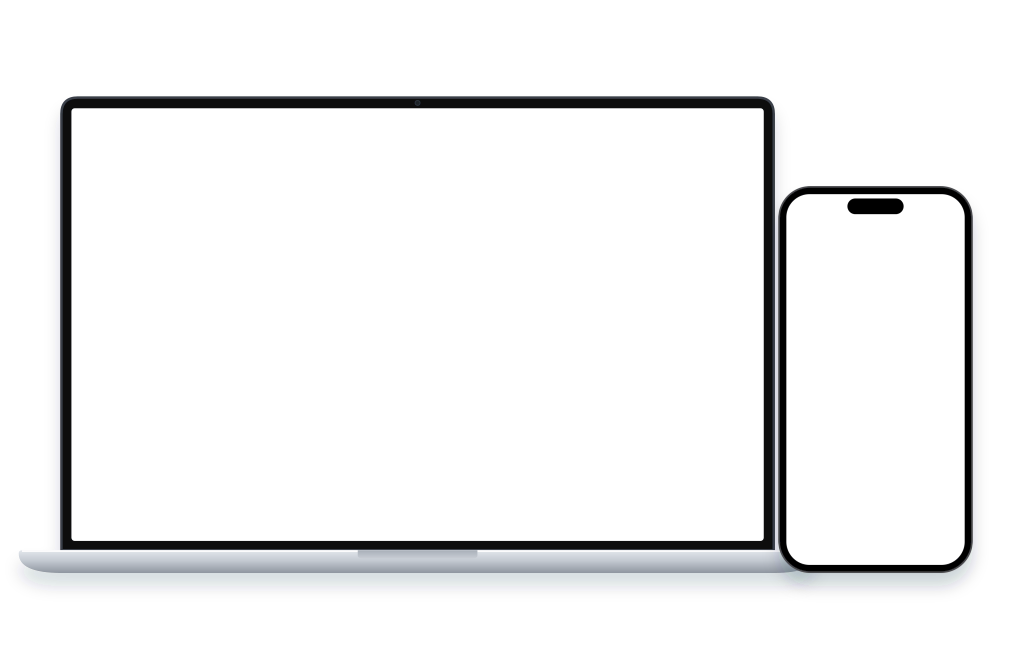
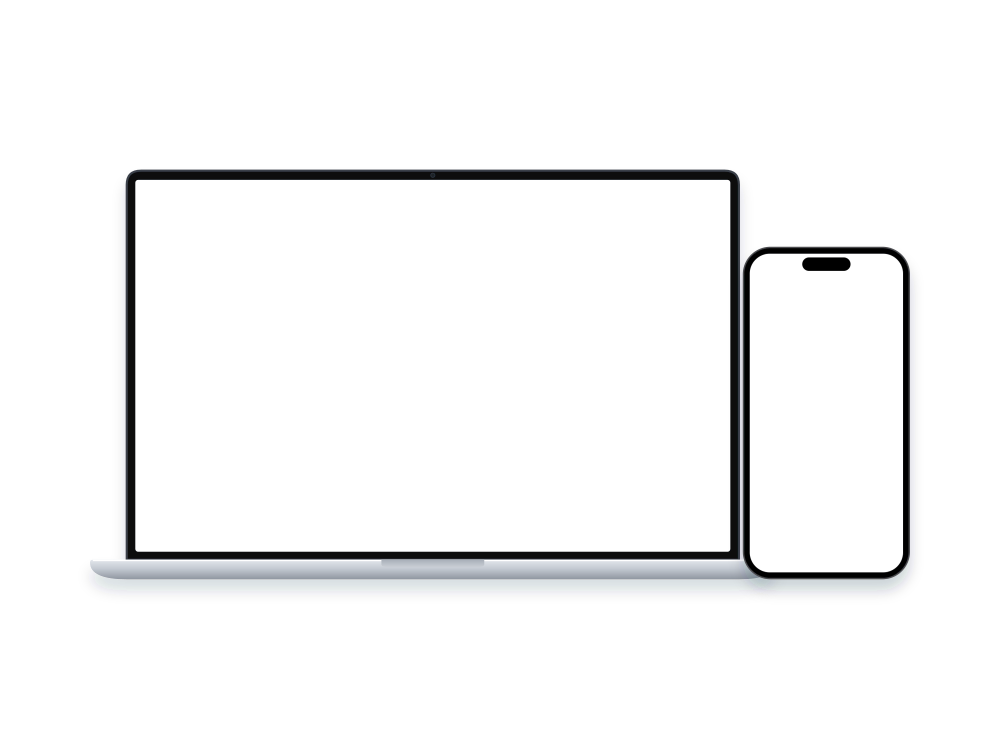
Upwork thumbnail: new 1000x750 template, exact size
Claude-Session: https://claude.ai/code/session_01QG62QkaA6QenRdwAqEtM53

Changed region(s): [[0.0, 0.1205, 0.961, 0.9036]]

diff --git a/dwd-projects/assets/upwork.js b/dwd-projects/assets/upwork.js
@@ -44,14 +44,14 @@
 	}
 
 	/*
-	 * The thumbnail is always the same template (assets/upwork-thumb.png, 1024 x 664): the site's
+	 * The thumbnail is always the same template (assets/upwork-thumb.png, 1000 x 750): the site's
 	 * hero goes on the laptop screen and the phone view on the phone screen. Screen positions are
-	 * measured from the template. It's drawn at 2x for sharpness, then the template frame on top.
+	 * measured from the template. The output is the template's exact size.
 	 */
-	var T = { w: 1024, h: 664, scale: 2,
-		laptop: { x: 71, y: 108, w: 693, h: 433 },
-		phone: { x: 786, y: 194, w: 178, h: 371, r: 22 },
-		island: { x: 849, y: 198, w: 53, h: 15 } };
+	var T = { w: 1000, h: 750, scale: 1,
+		laptop: { x: 135, y: 179, w: 596, h: 373 },
+		phone: { x: 749, y: 253, w: 154, h: 320, r: 20 },
+		island: { x: 804, y: 258, w: 45, h: 13 } };
 
 	function thumbnail(frame, cover, mockup) {
 		var k = T.scale, c = canvas(T.w * k, T.h * k), x = c.getContext('2d');

diff --git a/dwd-projects/dwd-projects.php b/dwd-projects/dwd-projects.php
@@ -2,7 +2,7 @@
 /**
  * Plugin Name: DWD Projects Portfolio
  * Description: Add a website project once (name, URL, details) and it appears on the Portfolio page, the homepage carousel and its own case-study page. Captures full-page screenshots from the URL and cuts them into section images automatically. Also styles blog posts to match the site.
- * Version: 2.1.1
+ * Version: 2.1.2
  * Author: Dream Web Digital
  * Requires at least: 6.0
  * Requires PHP: 7.4
@@ -11,7 +11,7 @@
 
 defined( 'ABSPATH' ) || exit;
 
-define( 'DWDP_VERSION', '2.1.1' );
+define( 'DWDP_VERSION', '2.1.2' );
 define( 'DWDP_FILE', __FILE__ );
 define( 'DWDP_DIR', plugin_dir_path( __FILE__ ) );
 define( 'DWDP_URL', plugin_dir_url( __FILE__ ) );
